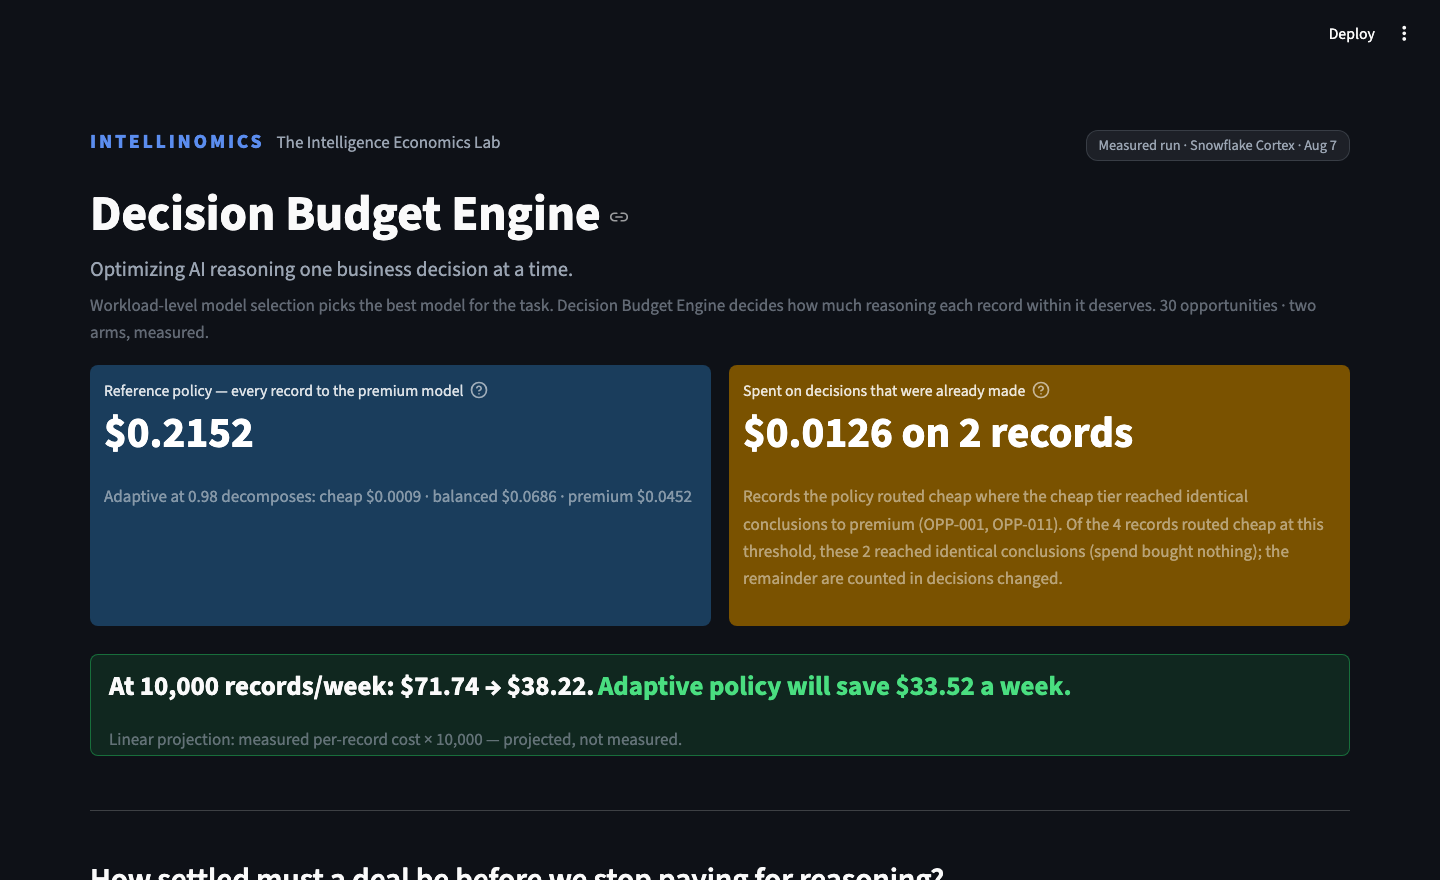
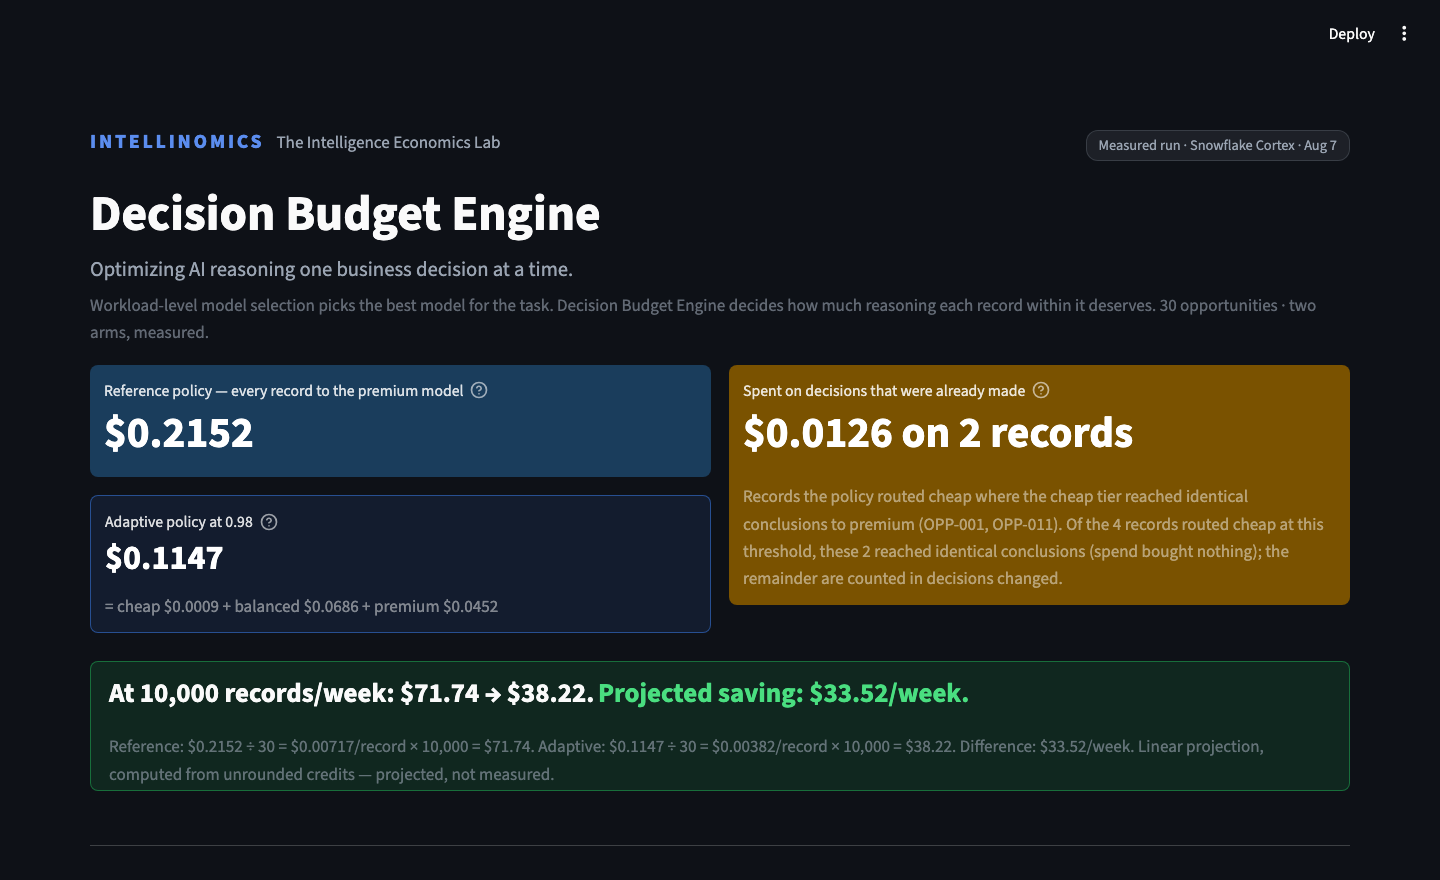
Bill restructure: stacked reference/adaptive cards, projection math chain, projected-saving wording
Left column is now two stacked cards - navy reference on top, adaptive counterpoint beneath with accent border, its total at prominent size and the tier decomposition as its subline - so the comparison reads in one vertical sweep and the projection traces to visible numbers. Projection caption spells the full chain with live values (total / 30 = per-record x 10,000) for both policies plus the difference. Green line reworded to projected saving - no promise tense on a projection. README bill screenshot refreshed. Verified at all three thresholds.

diff --git a/app/streamlit_app.py b/app/streamlit_app.py
@@ -124,10 +124,15 @@ div.dbe-field {{ margin: 6px 0 1px 0; }}
 .dbe-src-chip {{ float: right; font-size: .8rem; color: {MUTED};
                  background: rgba(154,164,178,.10); border: 1px solid rgba(154,164,178,.22);
                  border-radius: 12px; padding: 3px 12px; margin-top: 4px; }}
-/* Reference-policy tile: navy, mirroring the amber waste tile.
-   Both tiles share a min-height so the pair reads symmetric. */
-.st-key-dbe_ref_card, .st-key-dbe_waste_card {{ min-height: 14.5rem; }}
+/* Bill stack: reference (navy) with the adaptive counterpoint directly
+   beneath — one comparison in a vertical sweep, top-aligned vs the amber. */
 .st-key-dbe_ref_card {{ background: #1a3d5c; border-radius: 8px; padding: 12px 14px; }}
+.st-key-dbe_adaptive_card {{ background: rgba(59,130,246,.10);
+    border: 1px solid rgba(59,130,246,.5); border-radius: 8px; padding: 12px 14px; }}
+.st-key-dbe_adaptive_card [data-testid="stMetricValue"] {{ font-size: 1.9rem; color: #fff; }}
+.st-key-dbe_adaptive_card [data-testid="stMetricLabel"] {{ color: rgba(255,255,255,.85); }}
+.st-key-dbe_adaptive_card [data-testid="stCaptionContainer"] {{ color: rgba(255,255,255,.78); }}
+.st-key-dbe_bill_stack [data-testid="stVerticalBlock"] {{ gap: .45rem; }}
 .st-key-dbe_ref_card [data-testid="stMetricLabel"] {{ color: rgba(255,255,255,.85); }}
 .st-key-dbe_ref_card [data-testid="stMetricValue"] {{ color: #fff; }}
 .st-key-dbe_ref_card [data-testid="stCaptionContainer"] {{ color: rgba(255,255,255,.78); }}
@@ -356,7 +361,7 @@ st.info(
 # ---- Beat 1 content (needs the slider's operating point) -------------------
 with beat1:
     b1, b2 = st.columns(2)
-    with b1:
+    with b1, st.container(key="dbe_bill_stack"):
         with st.container(key="dbe_ref_card"):
             st.metric("Reference policy — every record to the premium model",
                       f"${ref.total_dollars:.4f}",
@@ -364,9 +369,18 @@ with beat1:
                            "model — the status quo this comparison is against. Math: sum "
                            "of the 30 premium calls' measured token costs (input + output "
                            "tokens × published Cortex rates) = "
-                           f"\\${ref.total_dollars:.4f} ({ref.total_credits:.6f} credits).")
-            st.caption(f"Adaptive at {threshold:.2f} decomposes: "
-                       f"cheap {md_usd(row.cheap_credits * 3)} · balanced {md_usd(row.balanced_credits * 3)} · "
+                           f"\\${ref.total_dollars:.4f} ({ref.total_credits:.6f} credits). "
+                           "The card below is what the adaptive policy cost on the same "
+                           "records.")
+        with st.container(key="dbe_adaptive_card"):
+            st.metric(f"Adaptive policy at {threshold:.2f}",
+                      f"${row.total_dollars:.4f}",
+                      help="What the adaptive policy spent across the same 30 records at "
+                           "the selected threshold — the sum of one call per record at "
+                           "its assigned tier. Math: cheap + balanced + premium = "
+                           f"\\${row.total_dollars:.4f} ({row.total_credits:.6f} credits).")
+            st.caption(f"= cheap {md_usd(row.cheap_credits * 3)} + "
+                       f"balanced {md_usd(row.balanced_credits * 3)} + "
                        f"premium {md_usd(row.premium_credits * 3)}")
     with b2:
         _waste_names = row.waste_records.replace(";", " + ")
@@ -393,10 +407,17 @@ with beat1:
         st.markdown(f"<span class='dbe-proj-val'>At 10,000 records/week: "
                     f"{md_usd(ref.projected_10k_weekly_dollars, 2)} → "
                     f"{md_usd(row.projected_10k_weekly_dollars, 2)}.</span> "
-                    f"<span class='dbe-proj-save'>Adaptive policy will save "
-                    f"{md_usd(_saved, 2)} a week.</span>",
+                    f"<span class='dbe-proj-save'>Projected saving: "
+                    f"{md_usd(_saved, 2)}/week.</span>",
                     unsafe_allow_html=True)
-        st.caption("Linear projection: measured per-record cost × 10,000 — projected, not measured.")
+        st.caption(f"Reference: {md_usd(ref.total_dollars)} ÷ 30 = "
+                   f"{md_usd(ref.total_dollars / 30, 5)}/record × 10,000 = "
+                   f"{md_usd(ref.projected_10k_weekly_dollars, 2)}. "
+                   f"Adaptive: {md_usd(row.total_dollars)} ÷ 30 = "
+                   f"{md_usd(row.total_dollars / 30, 5)}/record × 10,000 = "
+                   f"{md_usd(row.projected_10k_weekly_dollars, 2)}. "
+                   f"Difference: {md_usd(_saved, 2)}/week. Linear projection, computed "
+                   "from unrounded credits — projected, not measured.")
 
 st.divider()
 
